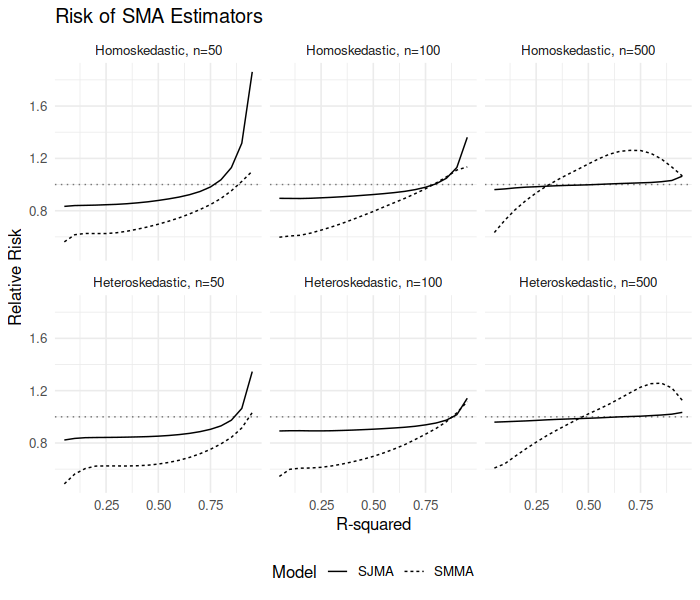
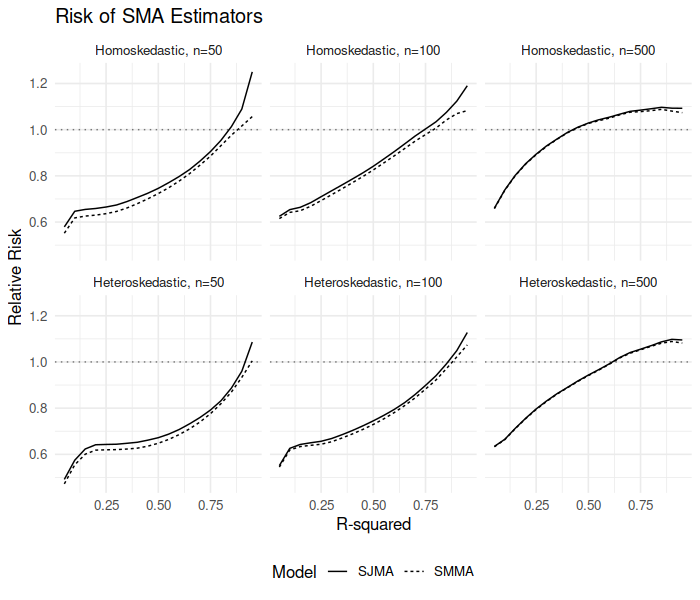
fix the array recycling
and now the figure looks closer to the original paper

diff --git a/README.md b/README.md
@@ -38,7 +38,7 @@ require(dplyr)
 # figure 1 labels are 'Homoskedastic', etc
 dosim <- function(nobs, R2, npred = 5, rho = 0.6, nsim = 1000,
     errors = c("Homoskedastic", "Heteroskedastic"),
-    randseed = NULL, fixed_theta = TRUE) {
+    randseed = NULL, fixed_theta = FALSE) {
     errors <- match.arg(errors)
     R <- rho^(toeplitz(1:npred) - 1)
     if (!is.null(randseed)) {
@@ -91,7 +91,7 @@ resu <- tidyr::crossing(tibble(R2 = seq(0.05, 0.95,
     "Homoskedastic")), tibble(ssize = c(50, 100, 500))) %>%
     group_by(R2, errors, ssize) %>%
     summarize(output = list(dosim(nobs = ssize, R2 = R2,
-        errors = errors, nsim = 1000, randseed = 123))) %>%
+        errors = errors, nsim = 1000, randseed = 1234))) %>%
     ungroup() %>%
     tidyr::unnest(output)
 
